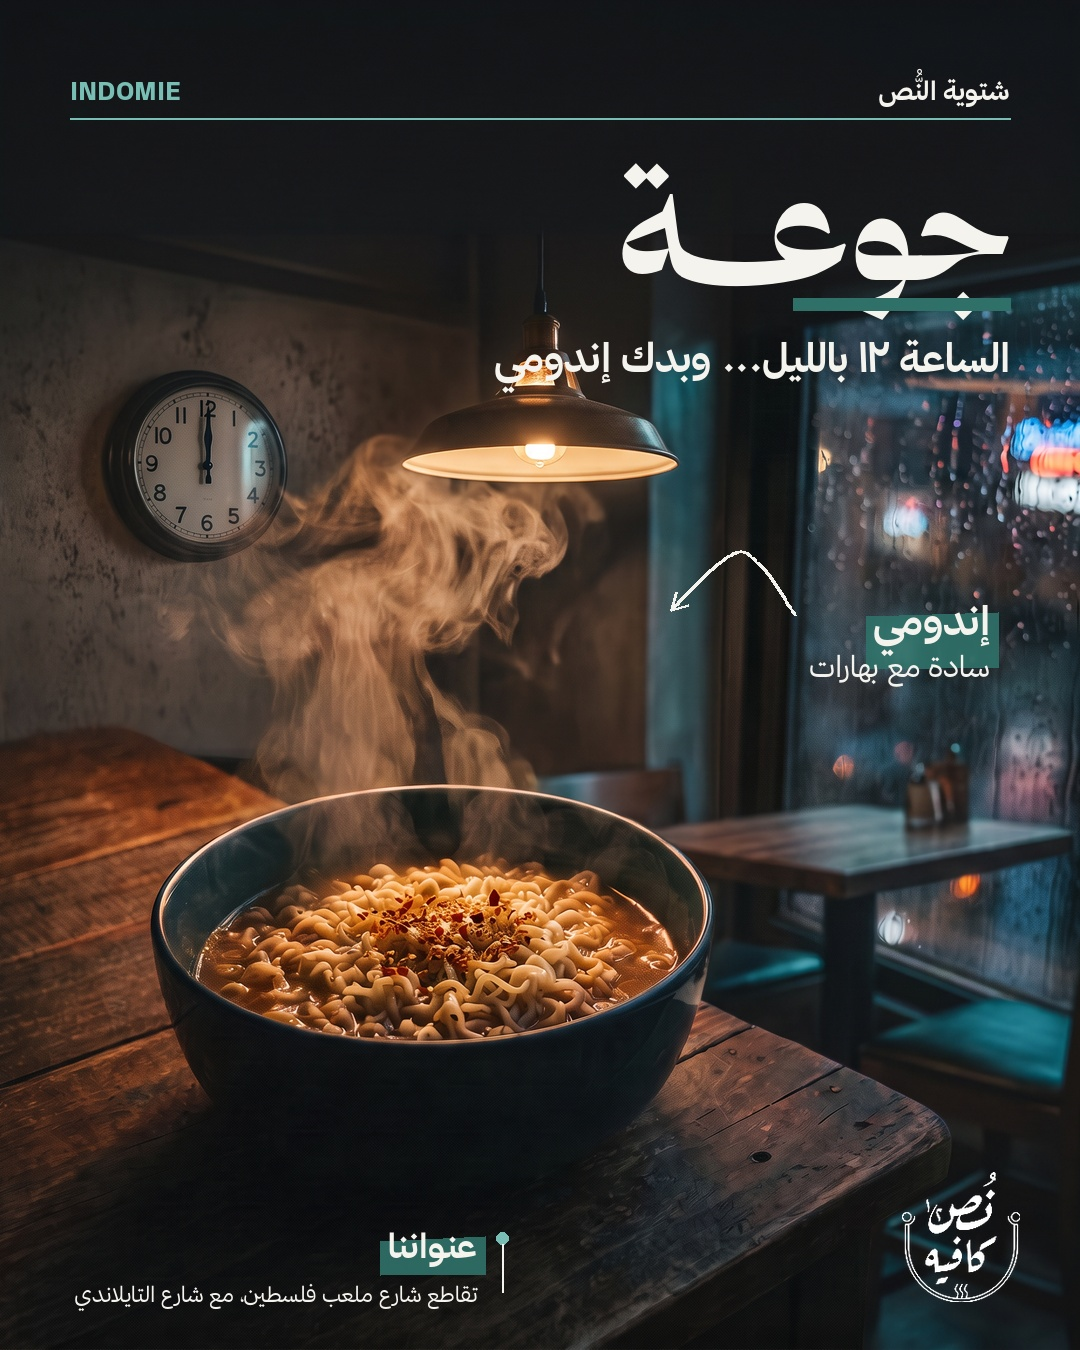
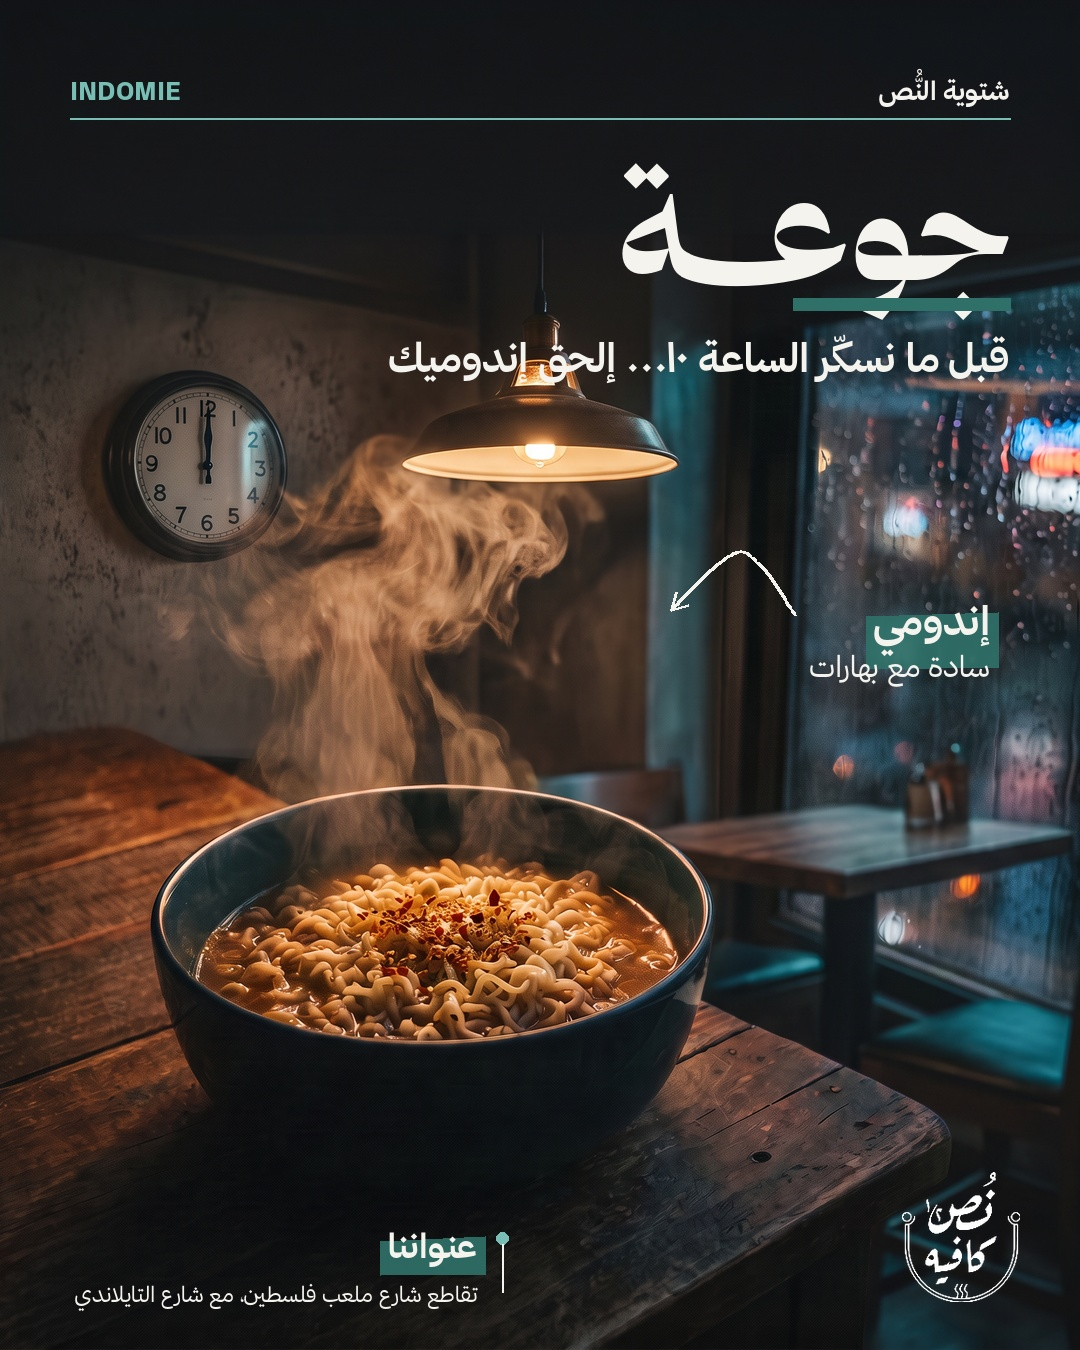
Align Indomie campaign with 10pm closing; record opening hours
Claude-Session: https://claude.ai/code/session_015dwSS3fWoFBppmEP84oyNx

Changed region(s): [[0.3667, 0.2489, 0.9472, 0.3111]]

diff --git a/CLAUDE.md b/CLAUDE.md
@@ -31,6 +31,10 @@ The owner wants generation fully hooked up so Claude can work alone.
 - **Adobe** connector is linked, but it has no generative image tools.
 - A Gemini or OpenAI API key may be configured as an environment secret (`GEMINI_API_KEY` / `OPENAI_API_KEY`). Never ask for keys in chat.
 
+## Opening hours
+- **Saturday to Thursday:** 10:00 to 22:00. **Friday:** 15:00 to 22:00.
+- They close at **22:00**. Never imply late-night or after-closing service, and never schedule a call-to-action story after 22:00.
+
 ## Publishing (Metricool)
 - The Metricool connector is linked. Brand `Nusscafee` (blogId `7418806`), Instagram `nusscafee`, timezone `Asia/Hebron`.
 - Media goes in as public raw.githubusercontent.com URLs from this branch, so push the images before scheduling.
